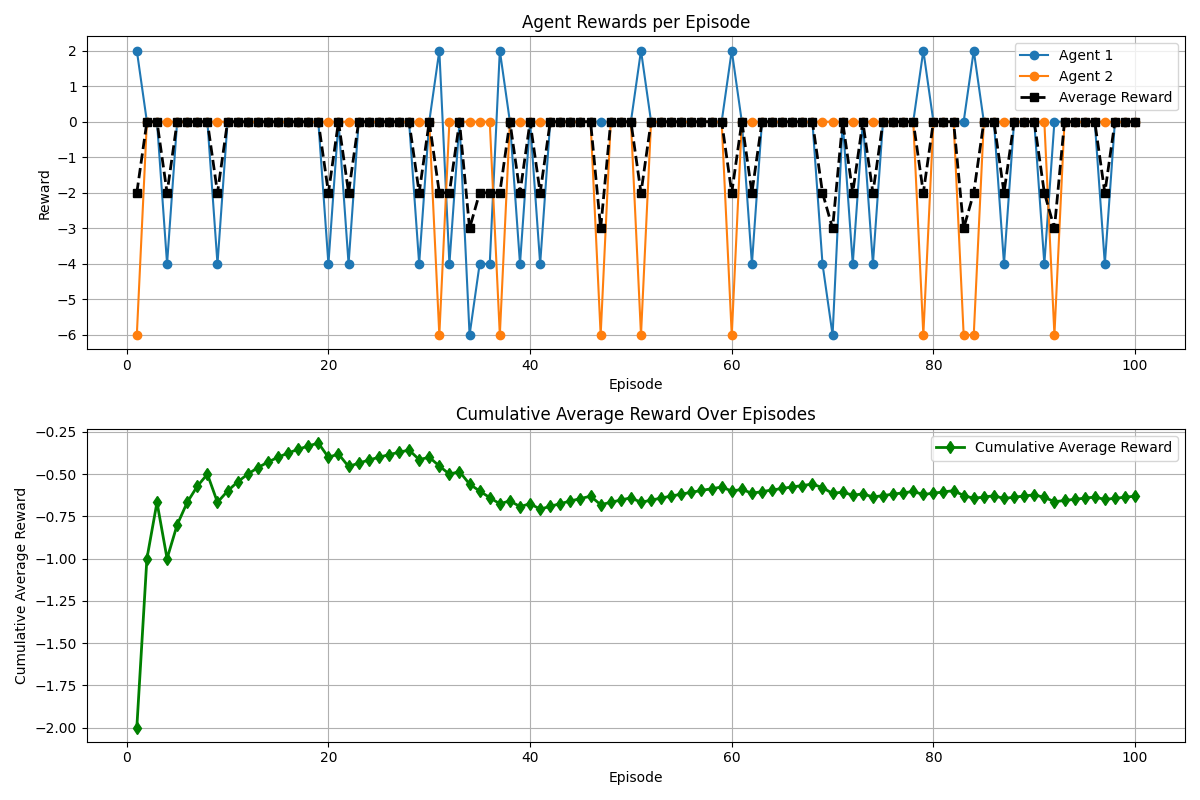
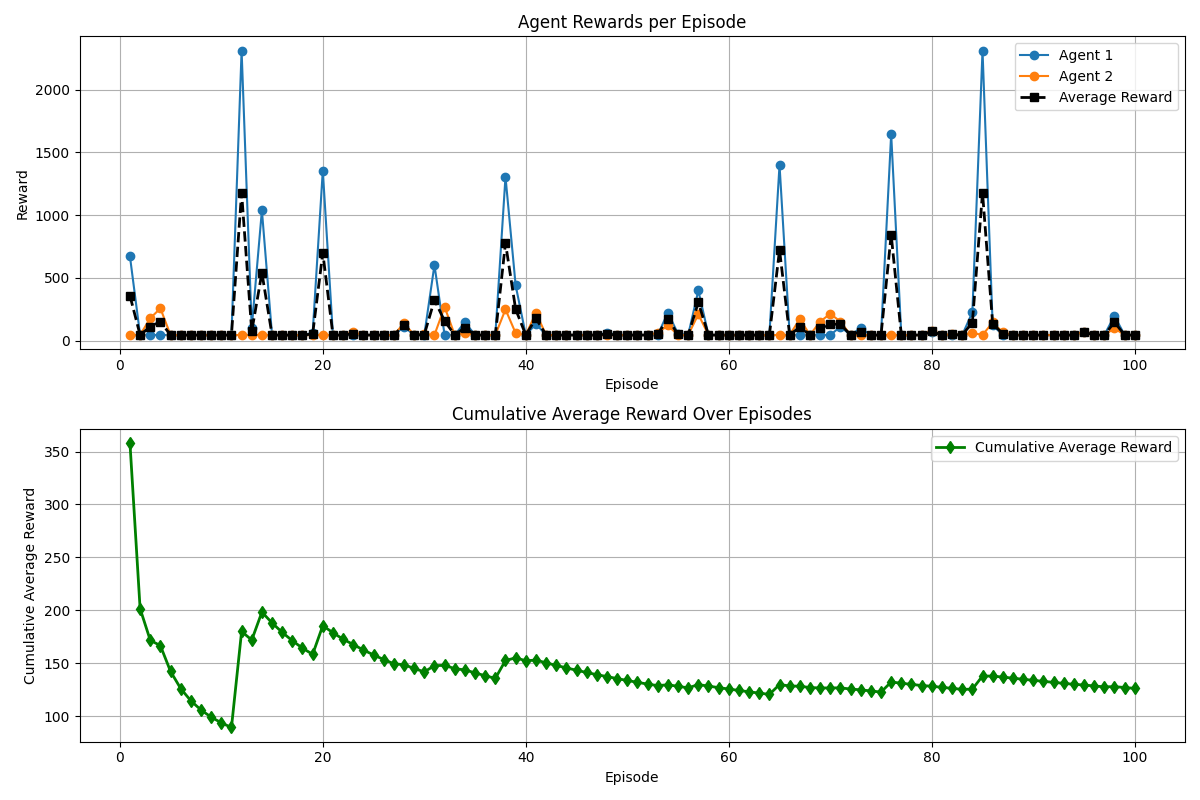
refactored algorithm selection

diff --git a/lb-foraging/foragingtest.py b/lb-foraging/foragingtest.py
@@ -30,23 +30,36 @@ def parse_args():
         action="store_true",
         help="Display agent info per step",
     )
+    parser.add_argument(
+        "--agent_type",
+        type=str,
+        default="curious_dqn",
+        choices=["random", "qlearning", "dqn", "curious_dqn"],
+        help="Type of agent to use",
+    )
     return parser.parse_args()
 
 
 class VisualisedEnv:
-    def __init__(self, env: str, max_steps: int, display_info: bool = True):
+    def __init__(self, env: str, max_steps: int, num_episodes: int, agent_type: str, display_info: bool = True):
+
         self.env = gym.make(env, render_mode="human", max_episode_steps=max_steps)
         self.n_agents = self.env.unwrapped.n_agents
         self.display_info = display_info
-
         self.episode_lengths = []
+        self.agent_type = agent_type
+        self.max_timesteps = max_steps
 
-        # # Initialize agents
-        # self.agents = [
-        #     RandomForagingAgent(agent_params={
-        #         "eta": 0.5, "carry_capacity": 10, "survival_cost": 0.5, "tau": 0, "k": 1
-        #     }) for _ in range(self.n_agents)
-        # ]
+        # Parameters
+        self.agent_params = {
+            "eta": 0.5, 
+            "carry_capacity": 10, 
+            "survival_cost": 1,
+            "tau": 0, 
+            "k": 1
+        }
+
+        # self.agents = self._create_agents()
 
         obss, _ = self.env.reset()
         self.env.render()
@@ -56,13 +69,28 @@ class VisualisedEnv:
         else:
             print("Warning: Viewer not initialized. Keyboard input may not work.")
 
+        # Data collection
         self.episode_rewards = [[] for _ in range(self.n_agents)]
         self.avg_episode_rewards = []
         self.episode_lengths = []
         self.cumulative_rewards = np.zeros(self.n_agents) 
-        self.max_timesteps = max_steps  # Set max_timesteps to max_steps (given as argument)
 
-        self._run_episodes(num_episodes=100)
+        self._run_episodes(num_episodes=num_episodes)
+
+
+    def _create_agents(self):
+        """Create agents based on the selected agent type."""
+        if self.agent_type == "random":
+            return [RandomForagingAgent(agent_params=self.agent_params) for _ in range(self.n_agents)]
+        elif self.agent_type == "qlearning":
+            return [QLearningForagingAgent(agent_params=self.agent_params) for _ in range(self.n_agents)]
+        elif self.agent_type == "dqn":
+            return [DeepQLearningForagingAgent(agent_params=self.agent_params) for _ in range(self.n_agents)]
+        elif self.agent_type == "curious_dqn":
+            return [CuriosityDrivenDQNAgent(agent_params=self.agent_params) for _ in range(self.n_agents)]
+        else:
+            print(f"Unknown agent type: {self.agent_type}, defaulting to Curious DQN")
+            return [CuriosityDrivenDQNAgent(agent_params=self.agent_params) for _ in range(self.n_agents)]
 
 
     def _key_press(self, k, mod):
@@ -76,29 +104,28 @@ class VisualisedEnv:
         total_rewards = np.zeros(self.n_agents)
 
         for episode in range(num_episodes):
-            ep_returns = np.zeros(self.n_agents)  # Reset episode rewards
+
+            # Reset episode rewards and length
+            ep_returns = np.zeros(self.n_agents)
             ep_length = 0
+
             # Reset the environment
             obss, _ = self.env.reset()
 
-            # Respawn all agents with full energy
-            self.agents = [
-                CuriosityDrivenDQNAgent(agent_params={
-                    "eta": 0.5, "carry_capacity": 10, "survival_cost": 1, "tau": 0, "k": 1
-                }) for _ in range(self.n_agents)
-            ]
+            self.agents=self._create_agents()
 
-            for player, agent in zip(self.env.unwrapped.players, self.agents):
-                print(f"Assigning {agent} to {player}")
+            for i, (player, agent) in enumerate(zip(self.env.unwrapped.players, self.agents)):
                 player.set_controller(agent)
+                # Initialize agent position to match player position
+                agent.position = player.position
+                agent.energy = 10  # Set initial energy
 
             self.env.render()
 
             if self.display_info:
                 print(f"Episode {episode + 1} begins.")
 
-
-            for step in range(100): 
+            for step in range(self.max_timesteps): 
                 # Remove dead agents before taking actions
                 self.agents = [agent for agent in self.agents if agent.energy > 0]
                 if not self.agents:  # If all agents are dead, end the episode early
@@ -153,7 +180,7 @@ class VisualisedEnv:
 
         self._plot_episode_lengths(self.episode_lengths)
 
-        time.sleep(15)
+        # time.sleep(0.5)
         self.env.close()
 
     def _plot_rewards(self):
@@ -217,4 +244,4 @@ class VisualisedEnv:
 
 if __name__ == "__main__":
     args = parse_args()
-    VisualisedEnv(env=args.env, display_info=True, max_steps=args.max_steps)
+    VisualisedEnv(env=args.env, display_info=True, max_steps=100, num_episodes=100, agent_type="qlearning")

diff --git a/lb-foraging/lbforaging/foraging/environment.py b/lb-foraging/lbforaging/foraging/environment.py
@@ -590,7 +590,7 @@ class ForagingEnv(gym.Env):
         # Check if the game is over
         # self._game_over = (self.field.sum() == 0 or self._max_episode_steps <= self.current_step)
         self._game_over = (self._max_episode_steps <= self.current_step)
-        self.replenish_food(replenishment_rate=1, previous_field=self.field, max_food=self.max_num_food)
+        self.replenish_food(replenishment_rate=0.5, previous_field=self.field, max_food=self.max_num_food)
         self._gen_valid_moves()
 
         # Verify food has been loaded to agents

diff --git a/lb-foraging/lbforaging/agents/qlearningagent.py b/lb-foraging/lbforaging/agents/qlearningagent.py
@@ -51,7 +51,8 @@ class QLearningForagingAgent(BaseForagingAgent):
 
         self.update_q_value(state, action, reward, next_state)
 
-        print(f"Energy level: {self.energy}, Reward: {reward}, Next state: {next_state}")
+        print(f"Energy level: {self.energy}, Reward: {reward}")
+        # print(f"Energy level: {self.energy}, Reward: {reward}, Next state: {next_state}")
         # print(f"Updated Q-table: {self.q_table}")
 
         return action

diff --git a/lb-foraging/lbforaging/agents/randomagent.py b/lb-foraging/lbforaging/agents/randomagent.py
@@ -27,6 +27,7 @@ class RandomForagingAgent(BaseForagingAgent):
         reward = self.energy  # Reward is the agent's current energy level
         next_state = self.get_state(obs)
 
-        print(f"Energy level: {self.energy}, Reward: {reward}, Next state: {next_state}")
+        print(f"Energy level: {self.energy}, Reward: {reward}")
+        # print(f"Energy level: {self.energy}, Reward: {reward}, Next state: {next_state}")
 
         return action

diff --git a/lb-foraging/lbforaging/__init__.py b/lb-foraging/lbforaging/__init__.py
@@ -50,7 +50,7 @@ register(
         "field_size": (4, 4),
         "max_num_food": 64,
         "sight": 2,
-        "max_episode_steps": 50,
+        "max_episode_steps": 100,
         "grid_observation": False,
         "penalty": 0.1,
         "force_coop": False,
